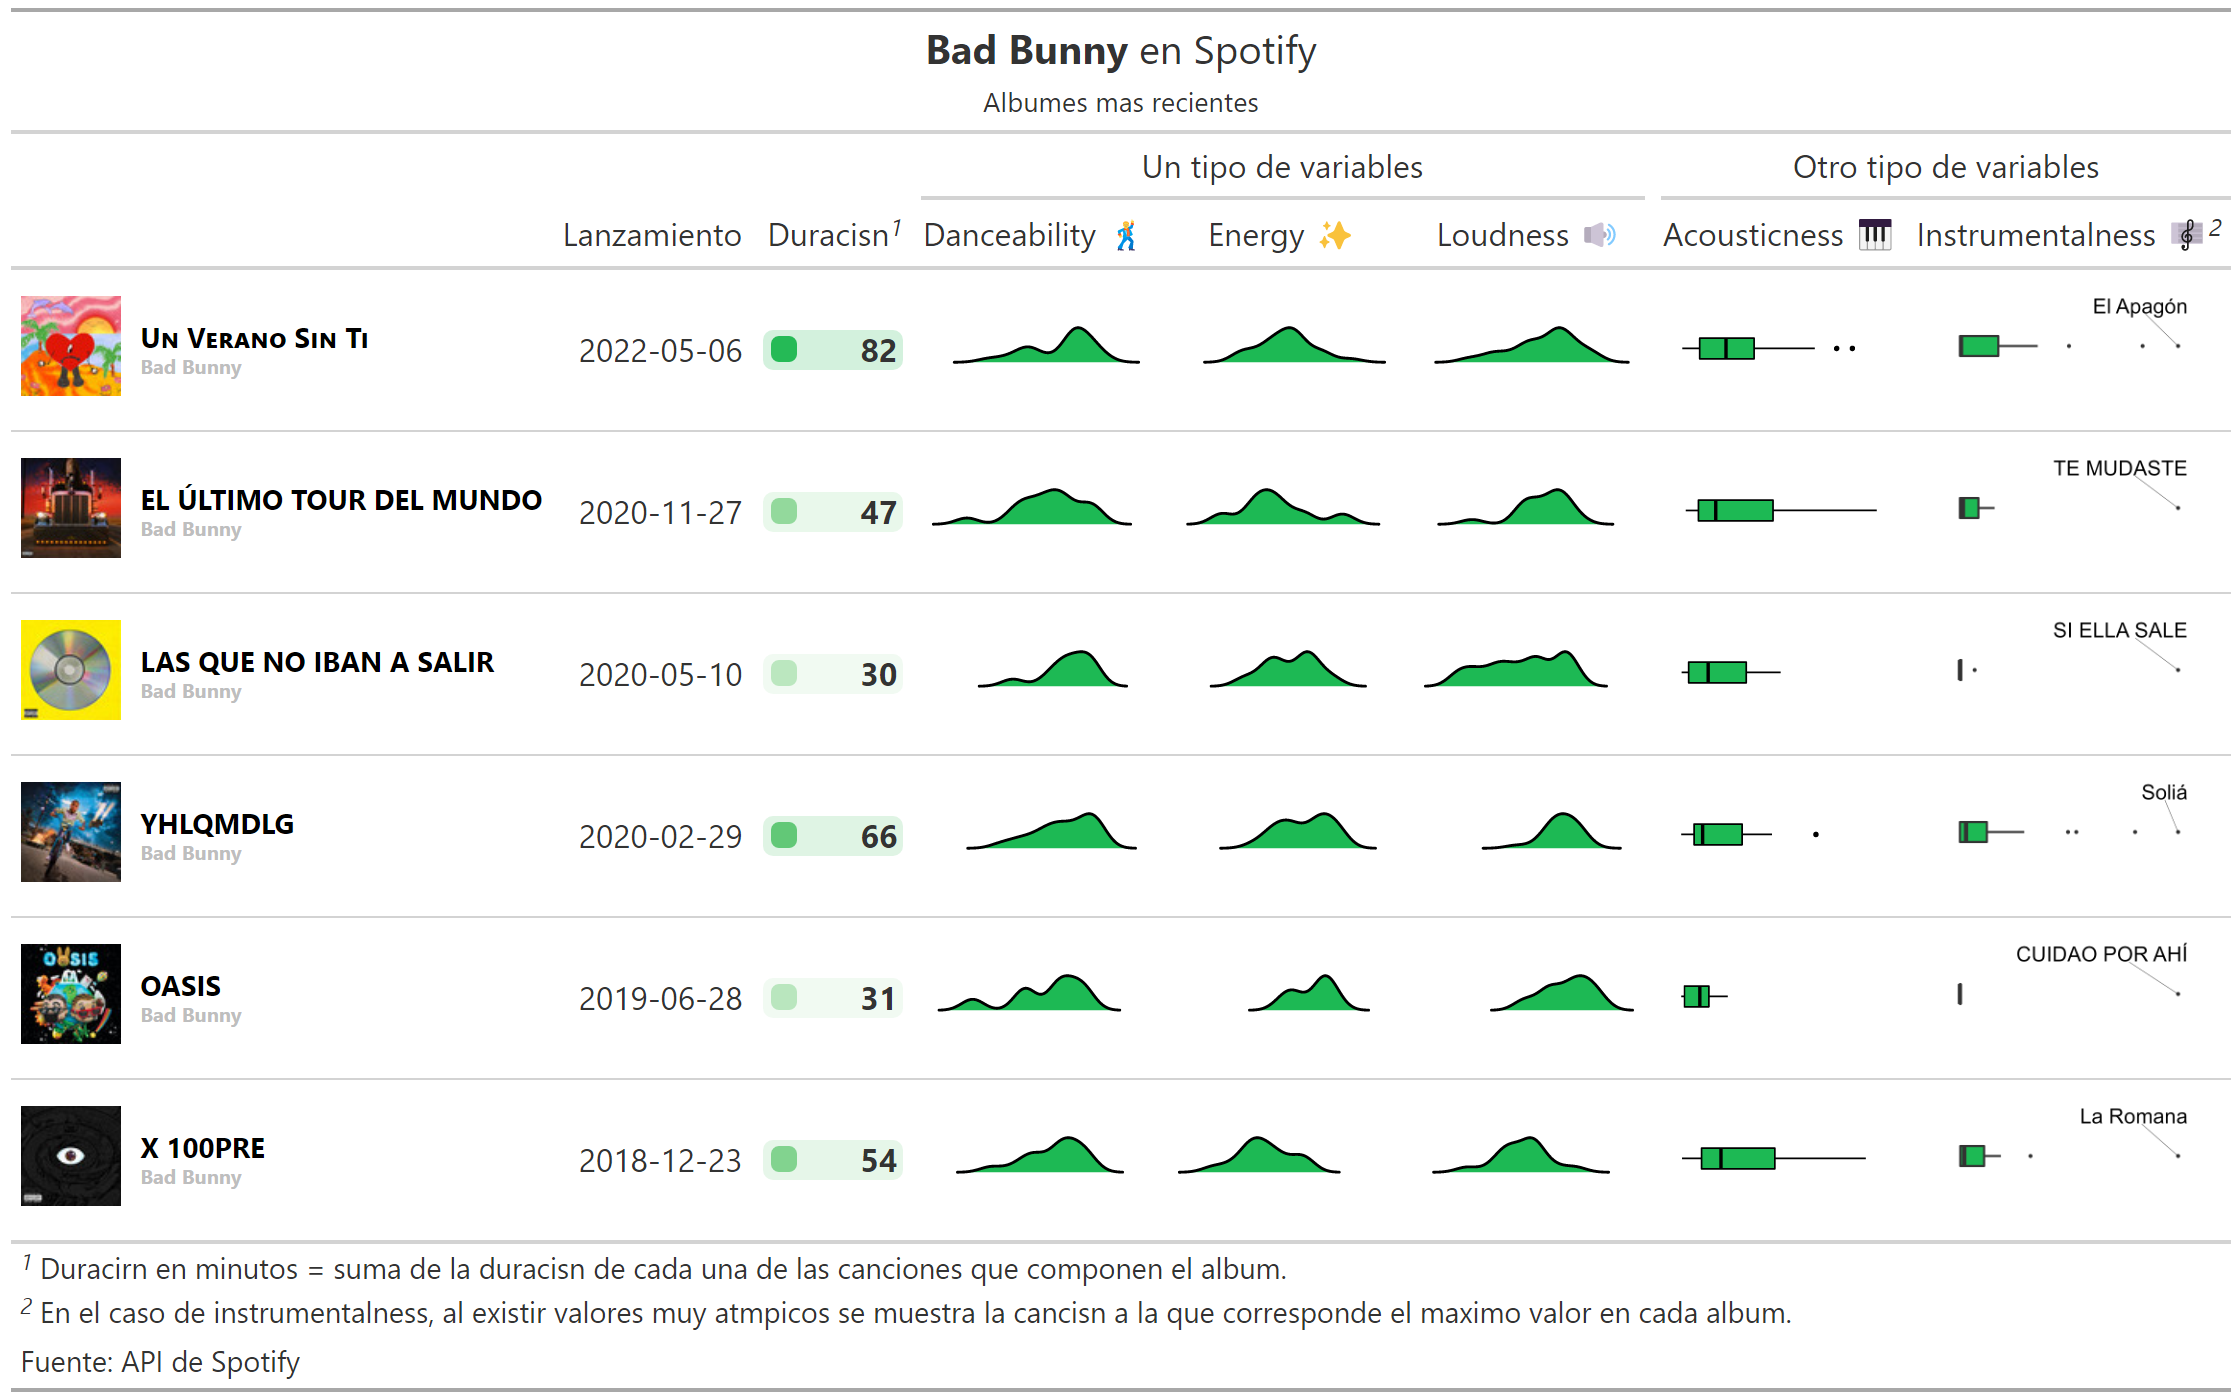
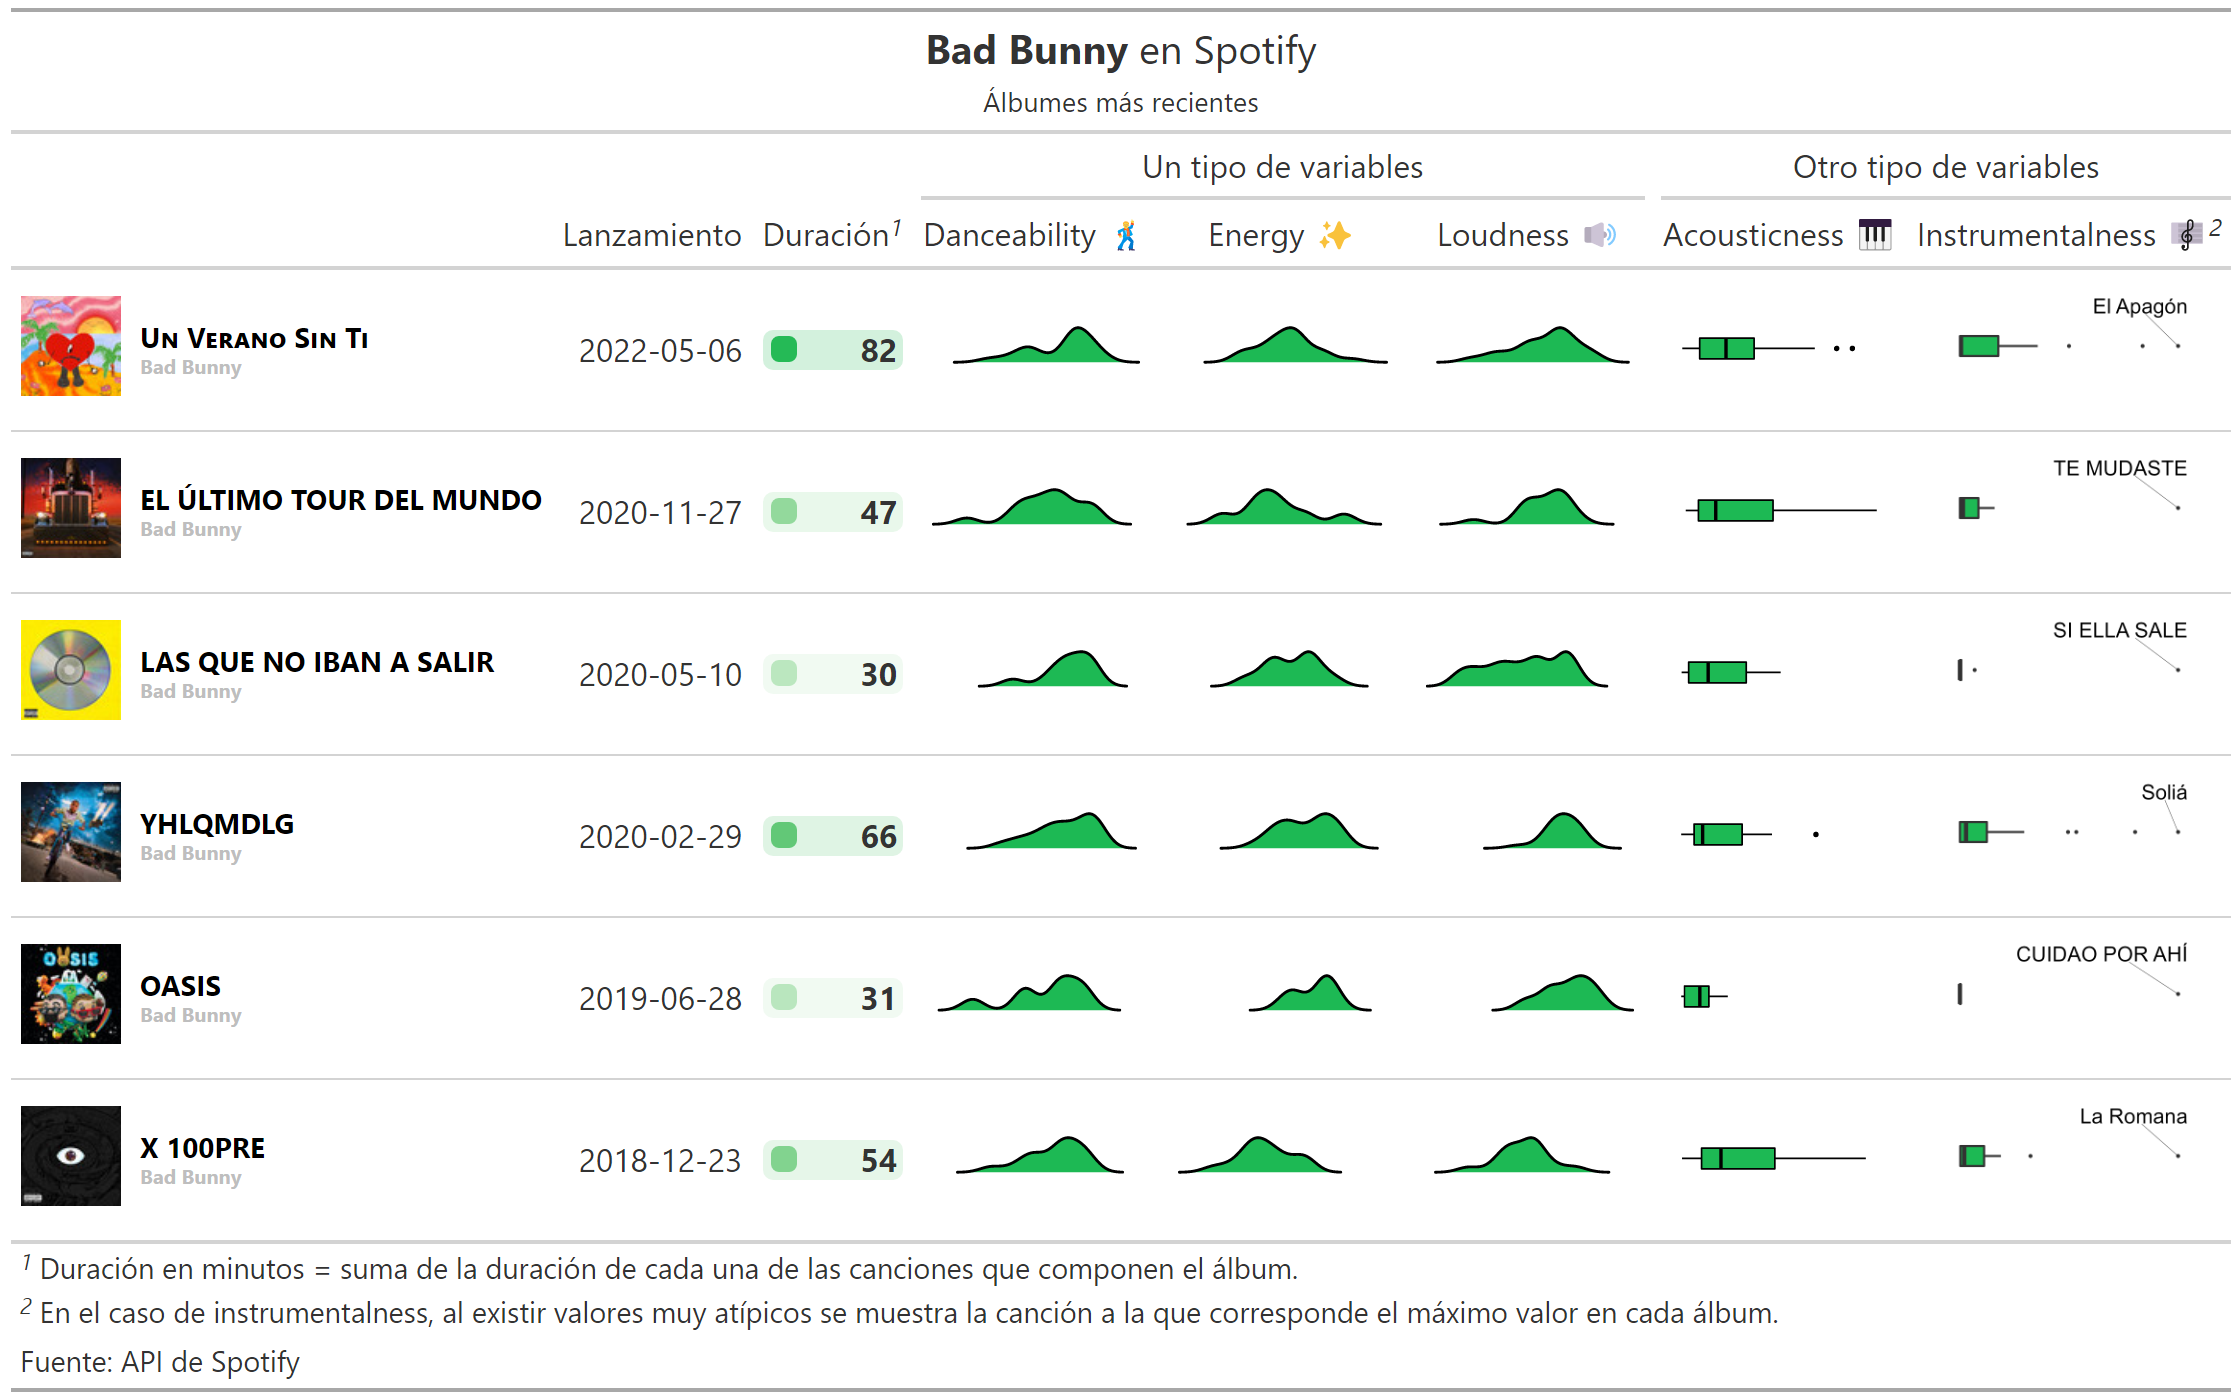
:bug: fix utf8 en tabla

diff --git a/02_caso_spotify/spotify_gt_rendered.md b/02_caso_spotify/spotify_gt_rendered.md
@@ -411,7 +411,7 @@ tabla_albums <- tabla_albums %>%
   
   gt::tab_footnote(
     locations=cells_column_labels('duration_mins'), 
-    footnote='Duraciòn en minutos = suma de la duración de cada una de las canciones que componen el álbum.') %>% 
+    footnote='Duración en minutos = suma de la duración de cada una de las canciones que componen el álbum.') %>% 
   
   gt::tab_footnote(
     locations=cells_column_labels('instrumentalness'), 
